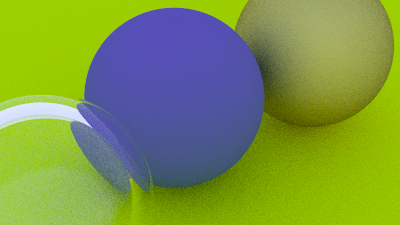
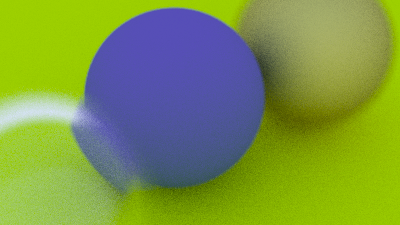
Implement depth of field effect

diff --git a/camera/camera.go b/camera/camera.go
@@ -23,6 +23,8 @@ type Camera struct {
 	LookFrom          vector.Point3
 	LookAt            vector.Point3
 	Vup               vector.Vector3
+	DefocusAngle      float64
+	FocusDist         float64
 	imageHeight       int
 	center            vector.Point3
 	pixel00Loc        vector.Point3
@@ -31,6 +33,8 @@ type Camera struct {
 	u                 vector.Vector3
 	v                 vector.Vector3
 	w                 vector.Vector3
+	defocusDiskU      vector.Vector3
+	defocusDiskV      vector.Vector3
 	pixelSamplesScale float64
 }
 
@@ -66,10 +70,9 @@ func (c *Camera) initialize() {
 	c.center = c.LookFrom
 
 	// Determine viewport dimensions
-	focalLength := c.LookFrom.SubtractVector(c.LookAt).Length()
 	theta := utils.DegreesToRadians(c.Fov)
 	h := math.Tan(theta / 2.0)
-	viewportHeight := 2.0 * h * focalLength
+	viewportHeight := 2.0 * h * c.FocusDist
 	viewportWidth := viewportHeight * (float64(c.ImageWidth) / float64(c.imageHeight))
 
 	// Calculate the u,v,w unit basis vectors for the camera coordinate frame.
@@ -87,11 +90,16 @@ func (c *Camera) initialize() {
 
 	// Calculate the location of the upper left pixel
 	viewportUpperLeft := c.center.
-		SubtractVector(w.MultiplyFloat(focalLength)).
+		SubtractVector(w.MultiplyFloat(c.FocusDist)).
 		SubtractVector(viewportU.DivideFloat(2)).
 		SubtractVector(viewportV.DivideFloat(2))
 
 	c.pixel00Loc = viewportUpperLeft.AddVector(c.pixelDeltaU.AddVector(c.pixelDeltaV).MultiplyFloat(0.5))
+
+	// Calculate the camera defocus disk basis vectors
+	defocusRadius := c.FocusDist * math.Tan(utils.DegreesToRadians(c.DefocusAngle/2))
+	c.defocusDiskU = u.MultiplyFloat(defocusRadius)
+	c.defocusDiskV = v.MultiplyFloat(defocusRadius)
 }
 
 func (c *Camera) rayColor(r ray.Ray, depth int, world material.Hittable) color.Color {
@@ -114,15 +122,26 @@ func (c *Camera) rayColor(r ray.Ray, depth int, world material.Hittable) color.C
 }
 
 func (c *Camera) getRay(i, j int) ray.Ray {
-	// Construct a camera ray originating from the origin and directed at randomly sampled
-	// point around the pixel location i, j.
+	// Construct a camera ray originating from the defocus disk and directed at a randomly
+	// sampled point around the pixel location i, j.
 	offset := sampleSquare()
 	pixelSample := c.pixel00Loc.
 		AddVector(c.pixelDeltaU.MultiplyFloat(float64(i) + (offset.X()))).
 		AddVector(c.pixelDeltaV.MultiplyFloat(float64(j) + offset.Y()))
-	rayOrigin := c.center
+	var rayOrigin vector.Vector3
+	if c.DefocusAngle <= 0 {
+		rayOrigin = c.center
+	} else {
+		rayOrigin = c.defocusDiskSample()
+	}
 	rayDirection := pixelSample.SubtractVector(rayOrigin)
 	return ray.NewRay(rayOrigin, rayDirection)
+}
+
+func (c *Camera) defocusDiskSample() vector.Point3 {
+	// Returns a random point in the camera defocus disk
+	p := vector.RandomInUnitDisk()
+	return c.center.AddVector(c.defocusDiskU.MultiplyFloat(p.X())).AddVector(c.defocusDiskV.MultiplyFloat(p.Y()))
 }
 
 func sampleSquare() vector.Vector3 {

diff --git a/vector/vector.go b/vector/vector.go
@@ -64,6 +64,15 @@ func RandomOnHemisphere(normal Vector3) Vector3 {
 	}
 }
 
+func RandomInUnitDisk() Vector3 {
+	for {
+		p := vec3{x: utils.RandomRange(-1, 1), y: utils.RandomRange(-1, 1), z: 0}
+		if p.LengthSquared() < 1 {
+			return p
+		}
+	}
+}
+
 func Reflect(v Vector3, n Vector3) Vector3 {
 	return v.SubtractVector(n.MultiplyFloat(v.Dot(n) * 2))
 }

diff --git a/main.go b/main.go
@@ -39,6 +39,8 @@ func main() {
 		LookFrom:        vector.NewVector3(-2, 2, 1),
 		LookAt:          vector.NewVector3(0, 0, -1),
 		Vup:             vector.NewVector3(0, 1, 0),
+		DefocusAngle:    10.0,
+		FocusDist:       3.4,
 	}
 	cam.Render(&world)
 }
